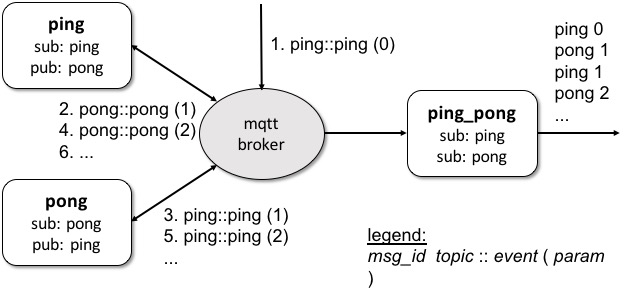
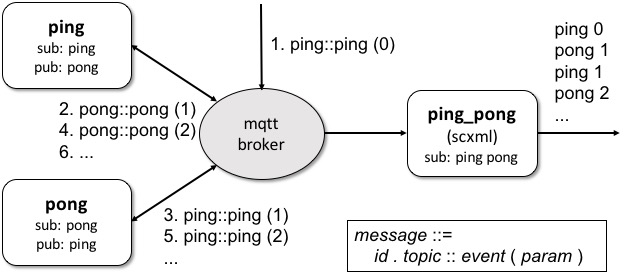
minor update

diff --git a/README.md b/README.md
@@ -13,13 +13,23 @@ with the following features:
 
 # Example: [ping\_pong](examples/ping_pong/README.md)
 
-(1) [ping.sh](examples/ping_pong/ping.sh) and [pong.sh](examples/ping_pong/pong.sh) interact with each other by exchaing _ping_ and _pong_ events via MQTT.  
-They start communication when an initial single _ping 0_ event is sent to _ping.sh_.
+(1) [ping.sh](examples/ping_pong/ping.sh) and [pong.sh](examples/ping_pong/pong.sh) interact with each other by emitting _ping_ and _pong_ events via MQTT.  
+They start communication when an initial _ping (0)_ event is received by _ping.sh_,
+upon which _ping.sh_ emits _pong (1)_.
+Then, it is is delivered to _pong.sh_ and responded with _ping (1)_ and so on.
 
-(2) [*ping\_pong.scxml*](examples/ping_pong/ping_pong.scxml) works as a _monitor_ for the above 2 programs.
-All events processed by the programs are monitored and reported as follows.
+(2) [*ping\_pong.scxml*](examples/ping_pong/ping_pong.scxml) is generated
+from [*ping\_pong.rules*](examples/ping_pong/ping_pong.rules)
+that is defined in *dsl4sc*.
+
+![ping\_pong](examples/ping_pong/ping_pong.svg") 
+
+(3) [*ping\_pong.scxml*](examples/ping_pong/ping_pong.scxml) works as a _monitor_ for the above 2 programs.
+It monitors all events exchanged between _ping.sh_ and _pong.sh_,
+and reports them on the console.
 
 ```
+$ ./runtest.sh
 ping 0  
 pong 1  
 ping 1  
@@ -29,7 +39,7 @@ pong 3
 ...
 ```
 
-![ping\_pong](examples/ping_pong/ping_pong.jpg)
+![ping\_pong](examples/ping_pong/ping_pong.jpg")
 
 # Installation on Docker
 (to be filled in)

diff --git a/examples/ping_pong/README.md b/examples/ping_pong/README.md
@@ -1,0 +1,34 @@
+(1) [ping.sh](ping.sh) and [pong.sh](pong.sh) interact with each other by emitting _ping_ and _pong_ events via MQTT.  
+They start communication when an initial _ping (0)_ event is received by _ping.sh_,
+upon which _ping.sh_ emits _pong (1)_.
+Then, it is is delivered to _pong.sh_ and responded with _ping (1)_ and so on.
+
+(2) [*ping\_pong.scxml*](ping_pong.scxml) is generated
+from [*ping\_pong.rules*](ping_pong.rules)
+that is defined in *dsl4sc*.
+
+&ensp; **protocol**  
+&ensp;&ensp; (ping; pong)\*;;  
+&ensp;&ensp;&ensp; // pairs of *ping* and *pong* events (repeated 0 or more times)  
+&ensp; **rule**  
+&ensp;&ensp; **on** ping **do** { console.log ("ping", \_event.data); };  
+&ensp;&ensp; **on** pong **do** { console.log ("pong", \_event.data); };  
+
+![ping\_pong](ping_pong.svg") 
+
+(3) [*ping\_pong.scxml*](ping_pong.scxml) works as a _monitor_ for the above 2 programs.
+It monitors all events exchanged between _ping.sh_ and _pong.sh_,
+and reports them on the console.
+
+```
+$ ./runtest.sh
+ping 0  
+pong 1  
+ping 1  
+pong 2  
+ping 2  
+pong 3  
+...
+```
+
+![ping\_pong](ping_pong.jpg")
